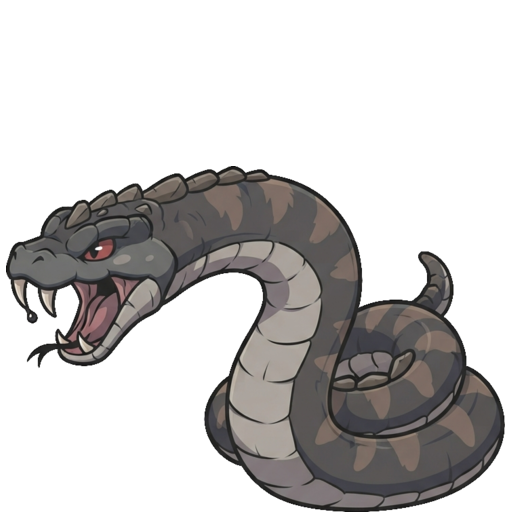
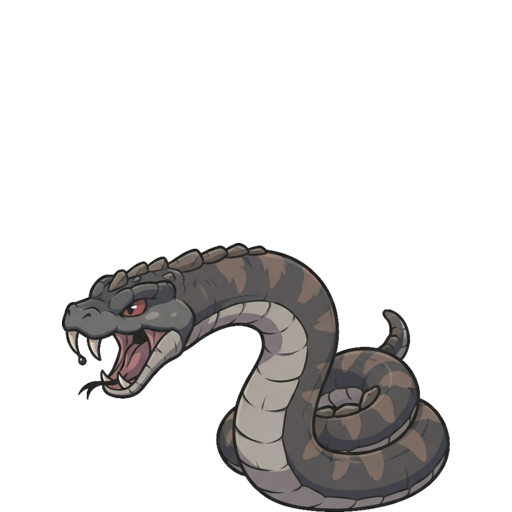
chore(units): 巨人分類を新設し、蛇型2体の大きさを離す
トロールは獣ではないので魔獣から「巨人」へ移し、陣営の見た目ルールも
giant/style.md として分けた。大きさは倍率でなく体つきで見せる・皮膚が
鎧・道具を持たない、が軸。

あわせてロックサーペント 0.9→0.7、ワイアーム 1.15→1.3。どちらも蛇型で
形が似るので、盤上では背丈の差（1.86倍）で見分けさせる。ワイアームは
仮にも竜族なので戦闘演出を single にして、8体並べない。

diff --git a/assets/units-src/giant/style.md b/assets/units-src/giant/style.md
@@ -1,0 +1,21 @@
+# 巨人陣営（giant）ユニットの見た目ルール
+
+巨人のスキンを生成するときの正本。全陣営共通のルール（絵柄・陣営カラー＝[doc/art/direction.md](../../../../doc/art/direction.md)／制作スペック・STYLE文と敵陣営の共通方針＝[doc/art/units.md](../../../../doc/art/units.md)）を先に読む。
+
+- 基調色＝赤黒（direction §2 の「敵（汎用）」）。体は暗く沈んだ自然色（灰緑・石灰・土色）にし、赤は目だけに置く。
+- 大きさは倍率ではなく体つきで見せる。小さな頭・巨大な肩・膝下まで垂れた太い腕・樽腹・短い脚。頭が小さいほど巨躯に読める。
+- 皮膚が鎧。厚く節くれた皮に、疣状の硬い甲板と、岩粉・地衣・苔の殻を乗せる。防御の高さを装備でなく体で説明する。
+- 道具を持たない。武器・防具・衣服・装身具は描かず、拳で殴る。同じ人型でも、鉄クズを身に着けるオークとはここで分かれる。
+- 遅さを姿勢で出す。前傾で重心が低く、拳が地面に近い。俊敏な立ち姿にしない。
+- 陣営内アンカー＝トロール。他の個体は SUBJECT に「same knotted grey-green hide, same stone crust as the troll」等を書いて展開する。
+- 各ユニットの生成 SUBJECT は同フォルダの `{skin_id}/{skin_id}_prompt.txt`。
+
+---
+
+## 個体の見分け
+
+性能（type）は味方からの借用だが、見た目には持ち込まない。
+
+| ユニット | 借用type | 見分けの特徴 |
+|---|---|---|
+| トロール | juggernaut | アンカー。洞から出た大物。痛い・硬い・ほとんど動かない。小さな頭を巨大な肩の間に沈め、膝下まで垂れた太い腕、樽腹、短い脚。灰緑の節くれた厚皮＋肩と背に石粉と地衣の殻。武器は持たず拳で殴る。シルエットは「腕の生えた岩」 |
